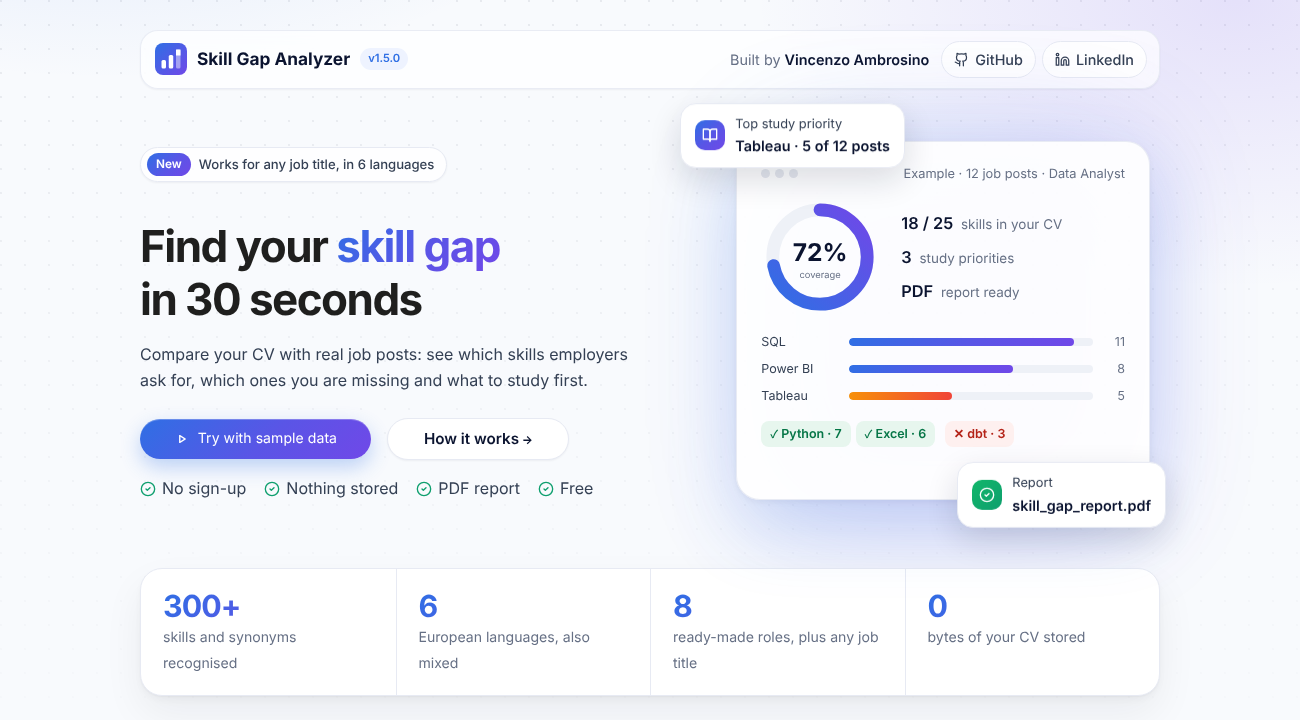
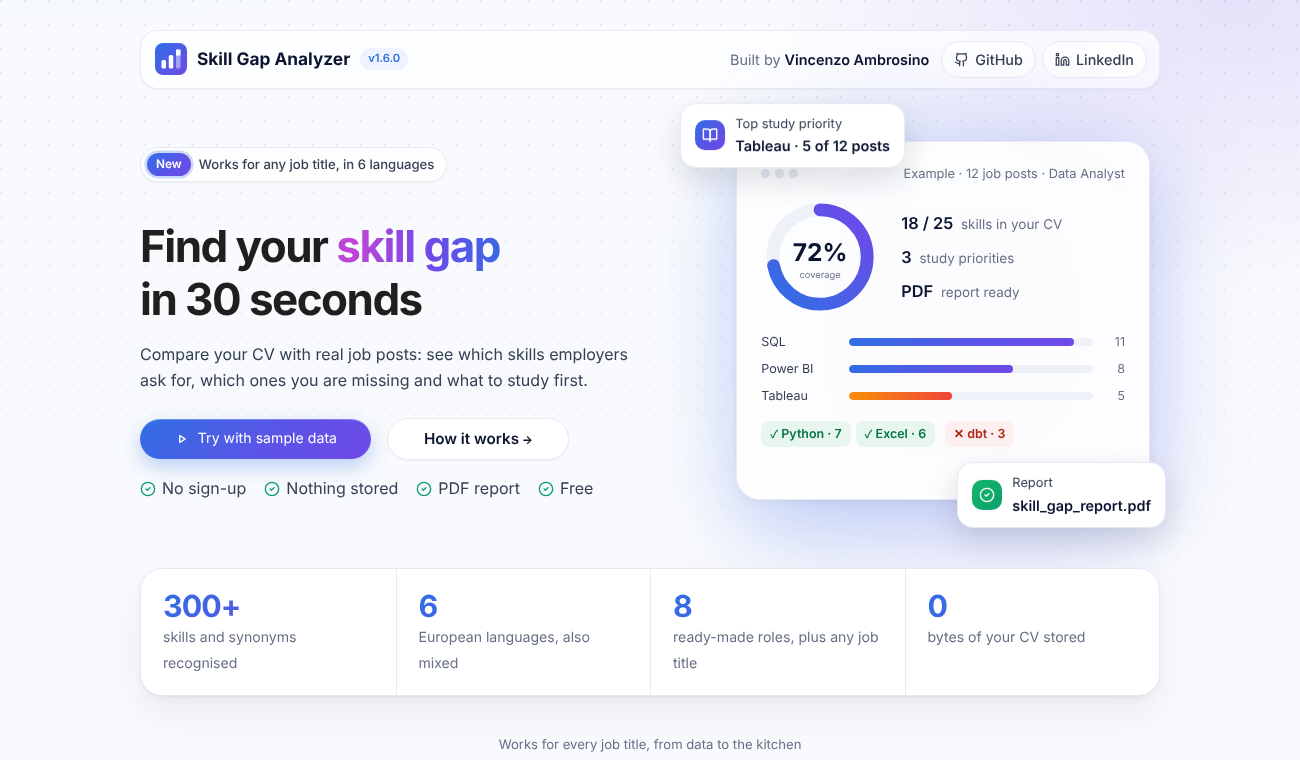
Polish the interface further (1.7.0)
Entrance animations, animated headline gradient, role marquee, bento
feature grid with live examples, connected steps, closing call to
action, custom coverage ring and card-based study priorities.

Claude-Session: https://claude.ai/code/session_01AaoYWGiG7jCNFpcVpApXSv

diff --git a/app.py b/app.py
@@ -9,6 +9,7 @@ lives in the `skill_gap` package:
 
 from __future__ import annotations
 
+import html
 from dataclasses import replace
 from pathlib import Path
 
@@ -24,7 +25,7 @@ from skill_gap.analysis import (
     split_soft_skills,
     study_priorities,
 )
-from skill_gap.charts import category_coverage_chart, coverage_donut, demand_bar_chart
+from skill_gap.charts import category_coverage_chart, demand_bar_chart
 from skill_gap.extractor import (
     REQUIRED,
     SkillMention,
@@ -277,7 +278,6 @@ h1, h2, h3, h4 { color: var(--ink); letter-spacing: -.015em; }
 .sga-eyebrow .tag { background: var(--grad); color: #fff; border-radius: 999px; padding: 2px 9px; font-weight: 600; font-size: .74rem; }
 .sga-title { font-size: 3.7rem; line-height: 1.02; font-weight: 800; color: var(--ink); margin: 0 0 18px;
   letter-spacing: -0.035em; }
-.sga-title .hl { background: var(--grad); -webkit-background-clip: text; background-clip: text; color: transparent; }
 .sga-lead { font-size: 1.16rem; color: var(--ink-2); line-height: 1.62; margin: 0 0 24px; max-width: 540px; }
 .sga-ghost { display: inline-flex; align-items: center; justify-content: center; gap: 6px; width: 100%;
   padding: 8px 18px; border-radius: 999px; border: 1px solid var(--line); background: #fff; box-shadow: var(--shadow-sm);
@@ -364,6 +364,109 @@ h1, h2, h3, h4 { color: var(--ink); letter-spacing: -.015em; }
 .sga-assure svg { flex: 0 0 18px; width: 18px; height: 18px; color: var(--brand); margin-top: 2px; }
 .sga-assure b { display: block; color: var(--ink); font-size: .9rem; font-weight: 600; }
 .sga-assure span { color: var(--muted); font-size: .84rem; line-height: 1.45; }
+
+/* --- Motion ------------------------------------------------------------------------- */
+@keyframes sga-shine { to { background-position: 200% center; } }
+@keyframes sga-rise { from { opacity: 0; transform: translateY(14px); } to { opacity: 1; transform: none; } }
+@keyframes sga-grow { from { width: 0; } }
+@keyframes sga-draw { from { stroke-dasharray: 0 var(--len); } }
+@keyframes sga-scroll { to { transform: translateX(-50%); } }
+@keyframes sga-pulse { 0%, 100% { box-shadow: 0 0 0 0 rgba(47,111,228,.45); } 50% { box-shadow: 0 0 0 6px rgba(47,111,228,0); } }
+.sga-title .hl { background: linear-gradient(90deg, #2f6fe4, #7048e8, #c246d6, #7048e8, #2f6fe4);
+  background-size: 200% auto; -webkit-background-clip: text; background-clip: text; color: transparent;
+  animation: sga-shine 7s linear infinite; }
+.sga-eyebrow .tag { animation: sga-pulse 2.6s ease-in-out infinite; }
+.sga-eyebrow, .sga-title, .sga-lead, .sga-checks { animation: sga-rise .7s cubic-bezier(.2,.7,.2,1) both; }
+.sga-title { animation-delay: .05s; } .sga-lead { animation-delay: .12s; } .sga-checks { animation-delay: .2s; }
+.sga-stage { animation: sga-rise .9s .15s cubic-bezier(.2,.7,.2,1) both; }
+.sga-bar div span, .sga-mini-bars i, .sga-prio .meter span { animation: sga-grow 1.2s .3s cubic-bezier(.2,.7,.2,1) both; }
+.sga-ring .arc { animation: sga-draw 1.4s .1s cubic-bezier(.2,.7,.2,1) both; }
+
+/* --- Marquee -------------------------------------------------------------------------- */
+.sga-marquee-label { text-align: center; color: var(--muted); font-size: .82rem; margin: 30px 0 12px; }
+.sga-marquee { overflow: hidden; -webkit-mask-image: linear-gradient(90deg, transparent, #000 10%, #000 90%, transparent);
+  mask-image: linear-gradient(90deg, transparent, #000 10%, #000 90%, transparent); }
+.sga-marquee .track { display: flex; gap: 10px; width: max-content; animation: sga-scroll 45s linear infinite; }
+.sga-marquee span { white-space: nowrap; padding: 8px 16px; border-radius: 999px; background: rgba(255,255,255,.85);
+  border: 1px solid var(--line); color: var(--ink-2); font-size: .88rem; font-weight: 500; box-shadow: var(--shadow-sm); }
+.sga-marquee:hover .track { animation-play-state: paused; }
+
+/* --- Bento ---------------------------------------------------------------------------- */
+.sga-bento { display: grid; grid-template-columns: repeat(3, 1fr); gap: 18px; }
+.sga-bento .span2 { grid-column: span 2; }
+.sga-demo-quote { margin-top: 16px; padding: 14px 16px; border-radius: 14px; background: #f7f9fd; border: 1px solid #edf0f7;
+  color: var(--ink-2); font-size: .92rem; line-height: 1.7; }
+.sga-demo-quote mark { background: rgba(47,111,228,.12); color: #1d4fb8; padding: 1px 6px; border-radius: 6px; font-weight: 600; }
+.sga-demo-quote mark.nice { background: rgba(112,72,232,.10); color: #5b3cc4; border: 1px dashed rgba(112,72,232,.45); }
+.sga-mini-bars { display: grid; gap: 9px; margin-top: 16px; }
+.sga-mini-bars div { display: grid; grid-template-columns: 60px 1fr; align-items: center; gap: 10px; font-size: .78rem; color: var(--ink-2); }
+.sga-mini-bars i { display: block; height: 8px; border-radius: 99px; background: linear-gradient(90deg, #f79009, #ef6820); }
+.sga-mini-bars i.h { background: repeating-linear-gradient(135deg, rgba(239,104,32,.75) 0 4px, rgba(239,104,32,.25) 4px 8px); }
+.sga-langs { display: flex; flex-wrap: wrap; gap: 8px; margin-top: 16px; }
+.sga-langs span { font-weight: 700; font-size: .8rem; letter-spacing: .04em; color: #067647; background: #e7f6ee;
+  border-radius: 10px; padding: 6px 10px; }
+.sga-card.dark { background: radial-gradient(500px 220px at 90% 0%, rgba(112,72,232,.45), transparent 60%),
+  radial-gradient(400px 220px at 0% 100%, rgba(47,111,228,.35), transparent 60%), #0b1430; border-color: #1b2547; }
+.sga-card.dark h4 { color: #fff; } .sga-card.dark p { color: #b8c2dc; }
+.sga-privacy { display: flex; flex-wrap: wrap; gap: 10px; margin-top: 18px; }
+.sga-privacy span { display: inline-flex; align-items: center; gap: 7px; color: #e3e8f6; font-size: .84rem;
+  padding: 7px 12px; border-radius: 999px; background: rgba(255,255,255,.07); border: 1px solid rgba(255,255,255,.12); }
+.sga-privacy svg { width: 15px; height: 15px; color: #6ce9a6; }
+.sga-steps .sga-card:not(:last-child)::after { content: "→"; position: absolute; right: -15px; top: 50%; transform: translateY(-50%);
+  width: 28px; height: 28px; border-radius: 50%; display: grid; place-items: center; background: #fff; color: var(--brand);
+  border: 1px solid var(--line); box-shadow: var(--shadow-sm); font-weight: 700; z-index: 2; }
+
+/* --- Results: ring and priorities --------------------------------------------------------- */
+.sga-ring { text-align: center; padding: 6px 4px 0; }
+.sga-ring svg { width: 210px; height: 210px; filter: drop-shadow(0 14px 28px rgba(47,111,228,.18)); }
+.sga-ring .v { font-size: 38px; font-weight: 800; fill: var(--ink); letter-spacing: -.03em; font-family: Inter, sans-serif; }
+.sga-ring .l { font-size: 12px; fill: var(--muted); font-family: Inter, sans-serif; }
+.sga-ring-verdict { display: inline-block; margin-top: 4px; padding: 4px 12px; border-radius: 999px; font-size: .82rem;
+  font-weight: 700; color: var(--brand); background: var(--brand-soft); }
+.sga-ring p { color: var(--muted); font-size: .86rem; line-height: 1.5; margin: 10px auto 0; max-width: 260px; }
+.sga-prio { display: grid; gap: 10px; }
+.sga-prio-item { display: grid; grid-template-columns: 36px minmax(0, 1fr) auto 122px; align-items: center; gap: 14px;
+  padding: 12px 14px; border-radius: 16px; background: var(--surface); border: 1px solid var(--line); box-shadow: var(--shadow-sm);
+  transition: border-color .15s, transform .15s, box-shadow .15s; }
+.sga-prio-item:hover { border-color: #cdd9f4; transform: translateX(2px); box-shadow: var(--shadow); }
+.sga-prio-item .rank { width: 36px; height: 36px; border-radius: 11px; display: grid; place-items: center; font-weight: 800;
+  color: #fff; background: var(--grad); }
+.sga-prio-item:nth-child(n+2) .rank { background: #eef2fb; color: var(--brand); }
+.sga-prio-item .info b { display: block; color: var(--ink); font-size: .98rem; }
+.sga-prio-item .info small { color: var(--muted); font-size: .8rem; }
+.sga-prio-item .meter { height: 6px; border-radius: 99px; background: #eef1f7; margin-top: 7px; overflow: hidden; max-width: 260px; }
+.sga-prio-item .meter span { display: block; height: 100%; border-radius: 99px; background: var(--grad); }
+.sga-prio-item .tags { display: flex; flex-wrap: wrap; gap: 6px; justify-content: flex-end; }
+.sga-prio-item .t { font-size: .74rem; font-weight: 600; border-radius: 999px; padding: 3px 9px; white-space: nowrap; }
+.sga-prio-item .t.req { background: #fef0ef; color: #b42318; }
+.sga-prio-item .t.nice { background: #f2f4f7; color: #475467; }
+.sga-prio-item .t.lvl { background: #fff4e5; color: #b54708; }
+.sga-prio-item .learn { text-align: center; white-space: nowrap; font-size: .84rem; font-weight: 600; color: var(--brand) !important;
+  text-decoration: none !important; padding: 7px 12px; border-radius: 999px; background: var(--brand-soft); }
+.sga-prio-item .learn:hover { background: var(--brand); color: #fff !important; }
+
+/* --- Closing call to action ---------------------------------------------------------------- */
+.sga-cta { position: relative; overflow: hidden; margin-top: 72px; padding: 38px 40px; border-radius: 26px; display: flex;
+  align-items: center; justify-content: space-between; gap: 24px; flex-wrap: wrap; color: #fff;
+  background: radial-gradient(600px 260px at 85% -20%, rgba(194,70,214,.55), transparent 60%),
+    radial-gradient(520px 260px at 0% 120%, rgba(47,111,228,.6), transparent 60%), #0b1430;
+  box-shadow: 0 30px 70px rgba(11,20,48,.28); }
+.sga-cta h3 { color: #fff; margin: 0 0 8px; padding: 0; font-size: 1.7rem; font-weight: 800; letter-spacing: -.02em; }
+.sga-cta p { color: #c3cbe2; margin: 0; max-width: 560px; }
+.sga-cta-btn { display: inline-block; padding: 13px 24px; border-radius: 999px; background: #fff; color: var(--ink) !important;
+  font-weight: 700; text-decoration: none !important; box-shadow: 0 10px 24px rgba(0,0,0,.25); transition: transform .15s; }
+.sga-cta-btn:hover { transform: translateY(-2px); }
+
+@media (prefers-reduced-motion: reduce) {
+  .sga-title .hl, .sga-eyebrow .tag, .sga-marquee .track, .sga-eyebrow, .sga-title, .sga-lead, .sga-checks, .sga-stage,
+  .sga-bar div span, .sga-mini-bars i, .sga-prio .meter span, .sga-ring .arc { animation: none; }
+}
+@media (max-width: 900px) {
+  .sga-bento { grid-template-columns: 1fr; } .sga-bento .span2 { grid-column: auto; }
+  .sga-steps .sga-card::after { display: none; }
+  .sga-prio-item { grid-template-columns: 36px minmax(0, 1fr) 122px; } .sga-prio-item .tags { display: none; }
+  .sga-cta { padding: 28px 24px; }
+}
 
 /* --- Footer --------------------------------------------------------------------------------- */
 .sga-footer { margin-top: 64px; padding: 26px 26px 22px; background: var(--surface); border: 1px solid var(--line);
@@ -463,12 +566,6 @@ _PREVIEW = f"""
 </div>
 """
 
-_FEATURES = [
-    ("search", "", "Explainable, no AI", "Skills are recognised with a list of {skills} skills and their synonyms, and the app shows the exact sentence that matched."),
-    ("chart", "c2", "Weighted by demand", "Skills that most employers require count more; nice-to-have skills count half."),
-    ("globe", "c3", "6 European languages", f"Job posts in {LANGUAGES}, also mixed together."),
-    ("lock", "c4", "Private by design", "Your CV is processed in memory for this session only and never stored."),
-]
 _STEPS = [
     ("file", "Upload your CV", "A text-based PDF, or paste its text."),
     ("briefcase", "Paste job posts", "One or more posts, separated by a line with ---."),
@@ -534,6 +631,15 @@ see which skills employers ask for, which ones you are missing and what to study
         + "</div>",
         unsafe_allow_html=True,
     )
+    roles = ["Data Analyst", "Software Developer", "Digital Marketing", "Accountant", "HR Specialist",
+             "Project Manager", "Sales Manager", "Data Engineer", "Nurse", "Chef", "Architect", "Teacher",
+             "Customer Success", "Financial Controller", "Recruiter", "Web Developer", "Logistics", "Pharmacist"]
+    chips = "".join(f"<span>{role}</span>" for role in roles)
+    st.markdown(
+        '<div class="sga-marquee-label">Works for every job title, from data to the kitchen</div>'
+        f'<div class="sga-marquee"><div class="track">{chips}{chips}</div></div>',
+        unsafe_allow_html=True,
+    )
 
 
 def _section(kicker: str, title: str, lead: str, anchor: str = "") -> str:
@@ -545,12 +651,36 @@ def _section(kicker: str, title: str, lead: str, anchor: str = "") -> str:
 
 
 def render_features() -> None:
-    cards = "".join(
-        f'<div class="sga-card"><div class="sga-icon {tone}">{_ICONS[icon]}</div><h4>{title}</h4><p>{text}</p></div>'
-        for icon, tone, title, text in (
-            (i, c, t, x.format(skills=known_skills_label())) for i, c, t, x in _FEATURES
-        )
-    )
+    langs = "".join(f"<span>{code}</span>" for code in ("EN", "IT", "FR", "DE", "ES", "PT"))
+    bento = f"""
+<div class="sga-bento">
+  <div class="sga-card span2">
+    <div class="sga-icon">{_ICONS["search"]}</div><h4>Explainable, no AI</h4>
+    <p>Skills are recognised with a list of {known_skills_label()} skills and their synonyms, and the app shows
+    the exact sentence that matched.</p>
+    <div class="sga-demo-quote">“We are looking for an analyst with strong <mark>SQL</mark> and <mark>Power BI</mark>,
+    good <mark>Excel</mark> and a working knowledge of <mark class="nice">Python</mark> (nice to have).”</div>
+  </div>
+  <div class="sga-card">
+    <div class="sga-icon c2">{_ICONS["chart"]}</div><h4>Weighted by demand</h4>
+    <p>Skills most employers require count more; nice-to-have skills count half.</p>
+    <div class="sga-mini-bars"><div><span>SQL</span><i style="width:92%"></i></div>
+      <div><span>Tableau</span><i style="width:60%"></i></div>
+      <div><span>Python</span><i class="h" style="width:38%"></i></div></div>
+  </div>
+  <div class="sga-card">
+    <div class="sga-icon c3">{_ICONS["globe"]}</div><h4>6 European languages</h4>
+    <p>Job posts in {LANGUAGES}, also mixed together.</p>
+    <div class="sga-langs">{langs}</div>
+  </div>
+  <div class="sga-card span2 dark">
+    <div class="sga-icon c4">{_ICONS["lock"]}</div><h4>Private by design</h4>
+    <p>Your CV is processed in memory for this session only. No account, no tracking, no copy kept anywhere.</p>
+    <div class="sga-privacy"><span>{_ICONS["check"]}In memory only</span><span>{_ICONS["check"]}No sign-up</span>
+      <span>{_ICONS["check"]}Gone when you close the page</span><span>{_ICONS["check"]}PDF report built on the fly</span></div>
+  </div>
+</div>
+"""
     steps = "".join(
         f'<div class="sga-card"><span class="sga-step-num">0{number}</span><div class="sga-icon">{_ICONS[icon]}</div>'
         f"<h4>{title}</h4><p>{text}</p></div>"
@@ -560,7 +690,7 @@ def render_features() -> None:
         _section("Why Skill Gap Analyzer", "Read the job market like a recruiter",
                  "A transparent way to read the job market, for any role: ready-made skill lists for the "
                  "most common jobs, automatic detection for all the others.")
-        + f'<div class="sga-grid">{cards}</div>'
+        + bento
         + _section("How it works", "Three steps, about a minute",
                    "No account, no upload to third parties: everything happens in this session.", "how-it-works")
         + f'<div class="sga-grid sga-steps">{steps}</div>'
@@ -572,6 +702,20 @@ def render_features() -> None:
     st.markdown(
         _section("Analyze", "Analyze your CV",
                  "Choose the role, add your CV and the job posts, then click Analyze.", "analyze"),
+        unsafe_allow_html=True,
+    )
+
+
+def render_cta() -> None:
+    """A closing call to action before the footer."""
+    st.markdown(
+        """
+<div class="sga-cta">
+  <div><h3>Your next interview starts with the right skills.</h3>
+  <p>Paste a few job posts, add your CV and get a study plan in under a minute. Free, private, no sign-up.</p></div>
+  <a class="sga-cta-btn" href="#analyze">Analyze my CV →</a>
+</div>
+""",
         unsafe_allow_html=True,
     )
 
@@ -828,6 +972,32 @@ def render_soft_skills(soft) -> None:
             st.caption("Already visible in your CV: " + ", ".join(present["skill"]))
 
 
+def render_coverage_ring(score: float, n_covered: int, n_total: int) -> None:
+    """The coverage score as an animated gradient ring."""
+    circumference = 2 * 3.14159 * 74
+    filled = circumference * max(0.0, min(score, 100.0)) / 100
+    verdict = ("Strong match" if score >= 75 else "Good base" if score >= 50
+               else "Room to grow" if score >= 25 else "Early stage")
+    st.markdown(
+        f"""
+<div class="sga-ring">
+  <svg viewBox="0 0 180 180" aria-label="{score:.0f}% weighted coverage">
+    <defs><linearGradient id="rg" x1="0" y1="0" x2="1" y2="1"><stop offset="0" stop-color="#2f6fe4"/>
+      <stop offset="1" stop-color="#7048e8"/></linearGradient></defs>
+    <circle cx="90" cy="90" r="74" fill="none" stroke="#e3e9f5" stroke-width="16"/>
+    <circle class="arc" cx="90" cy="90" r="74" fill="none" stroke="url(#rg)" stroke-width="16" stroke-linecap="round"
+      stroke-dasharray="{filled:.1f} {circumference:.1f}" style="--len:{circumference:.1f}" transform="rotate(-90 90 90)"/>
+    <text x="90" y="92" text-anchor="middle" class="v">{score:.0f}%</text>
+    <text x="90" y="116" text-anchor="middle" class="l">weighted coverage</text>
+  </svg>
+  <div class="sga-ring-verdict">{verdict}</div>
+  <p>{n_covered} of {n_total} requested technical skills are in your CV, weighted by how often employers ask for them.</p>
+</div>
+""",
+        unsafe_allow_html=True,
+    )
+
+
 def render_priorities(technical) -> None:
     st.markdown(f"#### :material/school: Top {TOP_PRIORITIES} study priorities")
     priorities = study_priorities(technical, TOP_PRIORITIES)
@@ -835,38 +1005,24 @@ def render_priorities(technical) -> None:
         st.success("Your CV covers every requested technical skill. Well done!")
         return
     resources = get_resources()
-    priorities = priorities.assign(
-        rank=range(1, len(priorities) + 1),
-        share=priorities["posts_share"] * 100,
-        learn=[resources_for(skill, resources)[0][1] for skill in priorities["skill"]],
-    )
-    st.dataframe(
-        priorities[["rank", "skill", "required_count", "nice_count", "level_count", "share", "learn"]],
-        hide_index=True,
-        width="stretch",
-        column_config={
-            "rank": st.column_config.NumberColumn("#", width=40),
-            "skill": "Skill",
-            "required_count": st.column_config.NumberColumn(
-                "Required", width=70, help="Posts that require the skill"
-            ),
-            "nice_count": st.column_config.NumberColumn(
-                "Nice", width=60, help="Posts where the skill is nice to have"
-            ),
-            "level_count": st.column_config.NumberColumn(
-                "Level", width=60,
-                help='Posts asking for a level, e.g. "advanced" or "3+ years" (weighs more)',
-            ),
-            "share": st.column_config.NumberColumn(
-                "Share", format="%.0f%%", width=70,
-                help="Share of the job posts that mention the skill",
-            ),
-            "learn": st.column_config.LinkColumn(
-                "Learn it", display_text="Free resource ↗", width=130,
-                help="A free place to start learning the skill",
-            ),
-        },
-    )
+    items = []
+    for rank, row in enumerate(priorities.itertuples(), start=1):
+        title, url = resources_for(row.skill, resources)[0]
+        share = row.posts_share * 100
+        tags = [f'<span class="t req">Required in {row.required_count}</span>' if row.required_count else ""]
+        if row.nice_count:
+            tags.append(f'<span class="t nice">Nice in {row.nice_count}</span>')
+        if getattr(row, "level_count", 0):
+            tags.append(f'<span class="t lvl">Level asked in {row.level_count}</span>')
+        items.append(
+            f'<div class="sga-prio-item"><span class="rank">{rank}</span>'
+            f'<div class="info"><b>{html.escape(row.skill)}</b><small>{html.escape(row.category)} · '
+            f'in {share:.0f}% of the posts</small><div class="meter"><span style="width:{max(share, 4):.0f}%"></span></div></div>'
+            f'<div class="tags">{"".join(tags)}</div>'
+            f'<a class="learn" href="{html.escape(url)}" target="_blank" rel="noopener" title="{html.escape(title)}">'
+            f'{"Learn it" if not title.startswith("Search") else "Find a course"} ↗</a></div>'
+        )
+    st.markdown(f'<div class="sga-prio">{"".join(items)}</div>', unsafe_allow_html=True)
 
 
 def render_results(
@@ -955,8 +1111,7 @@ def render_results(
     with overview:
         col_score, col_priorities = st.columns([1, 2], gap="large")
         with col_score:
-            st.plotly_chart(coverage_donut(score, mode), width="stretch",
-                            config={"displayModeBar": False})
+            render_coverage_ring(score, n_covered, len(technical))
         with col_priorities:
             render_priorities(technical)
         render_soft_skills(soft)
@@ -1137,6 +1292,7 @@ def main() -> None:
             ":material/lock: Your CV and the job posts stay in memory for this session only "
             "and are discarded when you close the page."
         )
+    render_cta()
     render_footer()
 
 

diff --git a/skill_gap/__init__.py b/skill_gap/__init__.py
@@ -7,4 +7,4 @@ Modules:
     analysis           Turn extracted skills into demand, coverage and priorities.
 """
 
-__version__ = "1.6.0"
+__version__ = "1.7.0"

diff --git a/CHANGELOG.md b/CHANGELOG.md
@@ -3,6 +3,19 @@
 All notable changes to Skill Gap Analyzer. Versions follow
 [semantic versioning](https://semver.org/); pre-release tags mark the stage.
 
+## 1.7.0 — 2026-10-20
+
+### Changed
+- **Motion:** the hero fades in, the headline has a moving gradient, the preview bars and
+  the coverage ring draw themselves; everything stops with "reduce motion".
+- **Role marquee** under the stats: a scrolling row of job titles the app works for.
+- **Bento features:** a live example of matched skills, mini demand bars, language tags
+  and a dark "Private by design" card.
+- Steps connected by arrows; a dark closing call to action before the footer.
+- **Results:** a custom gradient coverage ring with a verdict ("Room to grow", "Strong
+  match"…), and study priorities as cards with rank, share bar, required / nice / level
+  tags and a "Learn it" button.
+
 ## 1.6.0 — 2026-10-20
 
 ### Changed

diff --git a/README.md b/README.md
@@ -1,7 +1,7 @@
 # Skill Gap Analyzer
 
 [![Live demo](https://img.shields.io/badge/live%20demo-skill--gap.streamlit.app-ff4b4b?logo=streamlit&logoColor=white)](https://skill-gap.streamlit.app/)
-![Version](https://img.shields.io/badge/version-1.6.0-blue)
+![Version](https://img.shields.io/badge/version-1.7.0-blue)
 [![Tests](https://github.com/v-ambrosino/skill-gap-analyzer/actions/workflows/tests.yml/badge.svg)](https://github.com/v-ambrosino/skill-gap-analyzer/actions/workflows/tests.yml)
 
 **Compare your CV with real job posts and see which data skills the market wants — and which ones you are missing.**
